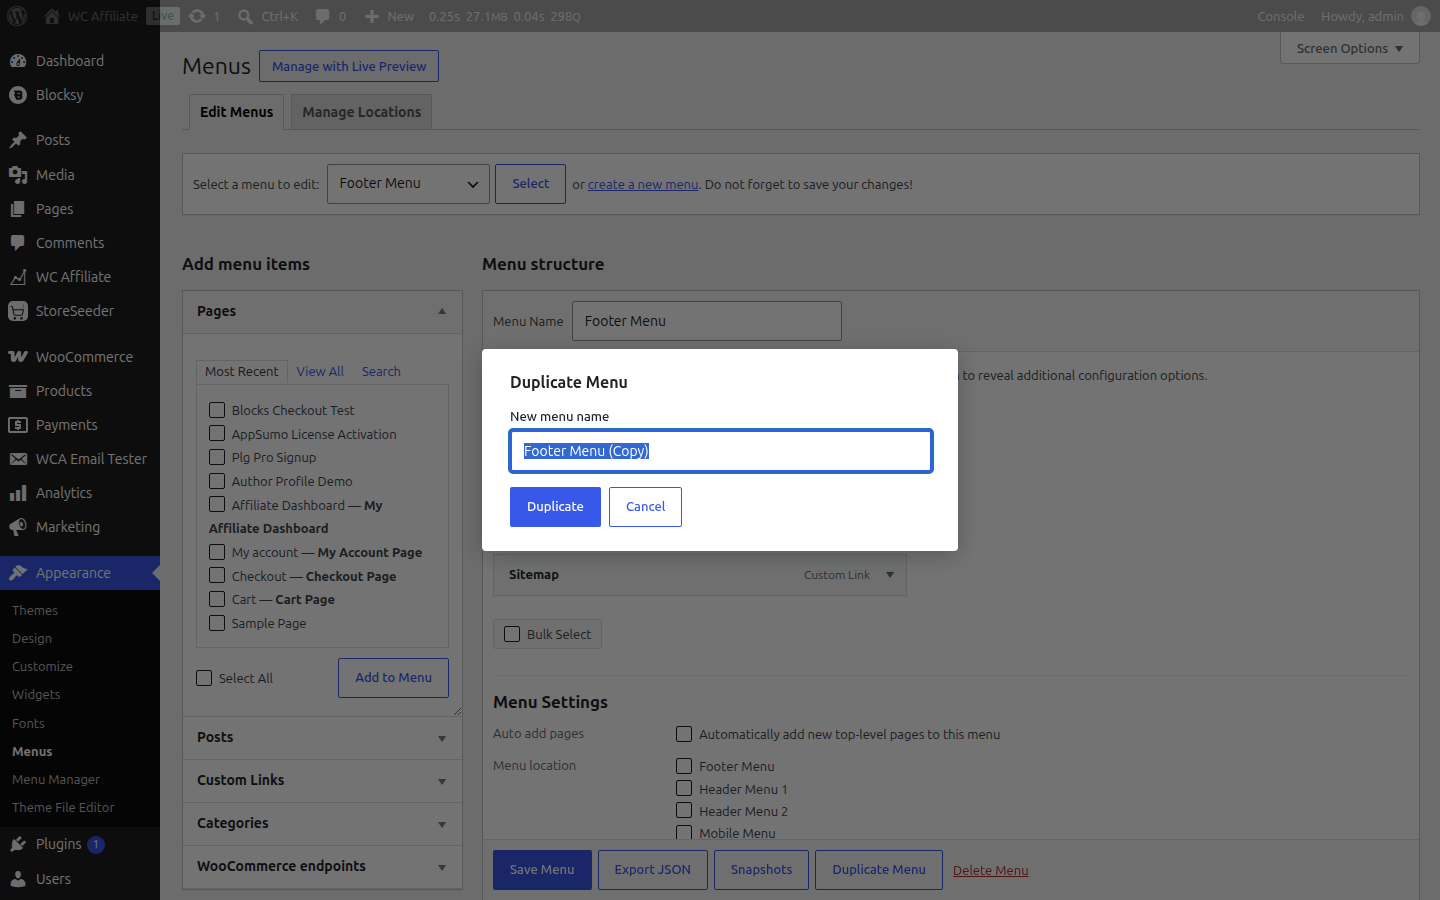
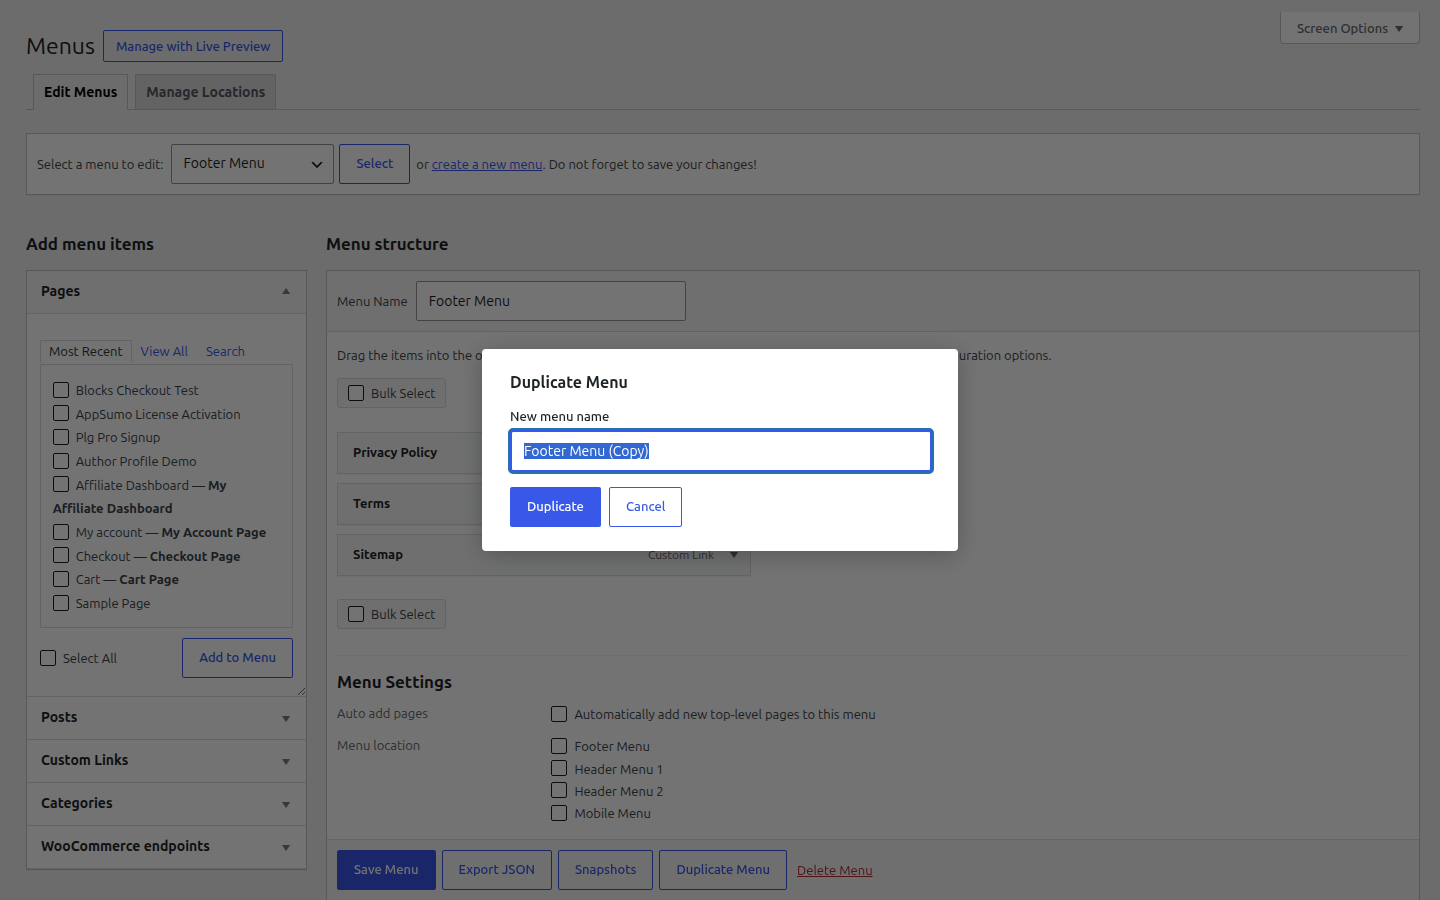
chore(assets): drop the admin bar and menu from the screenshots
The admin bar and the admin menu were taking about a quarter of every
1440x900 frame — a quarter of each listing image spent on furniture that
every WordPress user has already seen, and none of it showing the plugin.

Both are now removed rather than dimmed, and the space they held is
reclaimed so the plugin's own interface fills the frame. The snapshot panel
offsets itself by the admin bar height, so the capture pass zeroes that
custom property too, keeping the panel flush with the top edge.

diff --git a/tests/e2e/assets/wporg-shots.spec.ts b/tests/e2e/assets/wporg-shots.spec.ts
@@ -22,15 +22,34 @@ const shot = async ( page: Page, n: number ) => {
 };
 
 /**
- * Collapses the admin menu and hides notices other plugins inject, so the
- * screenshots show this plugin rather than whatever else is installed.
+ * Strips the surrounding WordPress chrome so each shot is about this plugin.
+ *
+ * The admin bar and the admin menu are removed rather than dimmed: they take
+ * roughly a quarter of a 1440x900 frame, and in a directory listing that is a
+ * quarter spent on furniture every WordPress user has already seen. Notices
+ * other plugins inject go too, for the same reason.
  */
 async function tidyChrome( page: Page ): Promise< void > {
 	await page.addStyleTag( {
 		content: `
-			#wpfooter, #screen-meta-links .screen-meta-toggle:not(:first-child) { display: none !important; }
+			#wpadminbar,
+			#adminmenumain, #adminmenuback, #adminmenuwrap,
+			#wpfooter,
+			#screen-meta-links .screen-meta-toggle:not(:first-child) {
+				display: none !important;
+			}
+
 			.notice:not(.swmd-keep), .update-nag, .updated, .error { display: none !important; }
-			#wpadminbar { opacity: .35; }
+
+			/* Reclaim the space the removed chrome was holding. */
+			html.wp-toolbar { padding-top: 0 !important; }
+			#wpcontent, #wpbody-content, #wpfooter { margin-left: 0 !important; }
+			#wpcontent { padding-left: 24px !important; }
+			#wpbody { padding-top: 12px !important; }
+
+			/* The snapshot panel offsets itself by the admin bar height. */
+			:root { --wp-admin--admin-bar--height: 0px !important; }
+
 			/* Freeze motion: a capture mid-transition ghosts the whole page. */
 			*, *::before, *::after {
 				transition: none !important;
